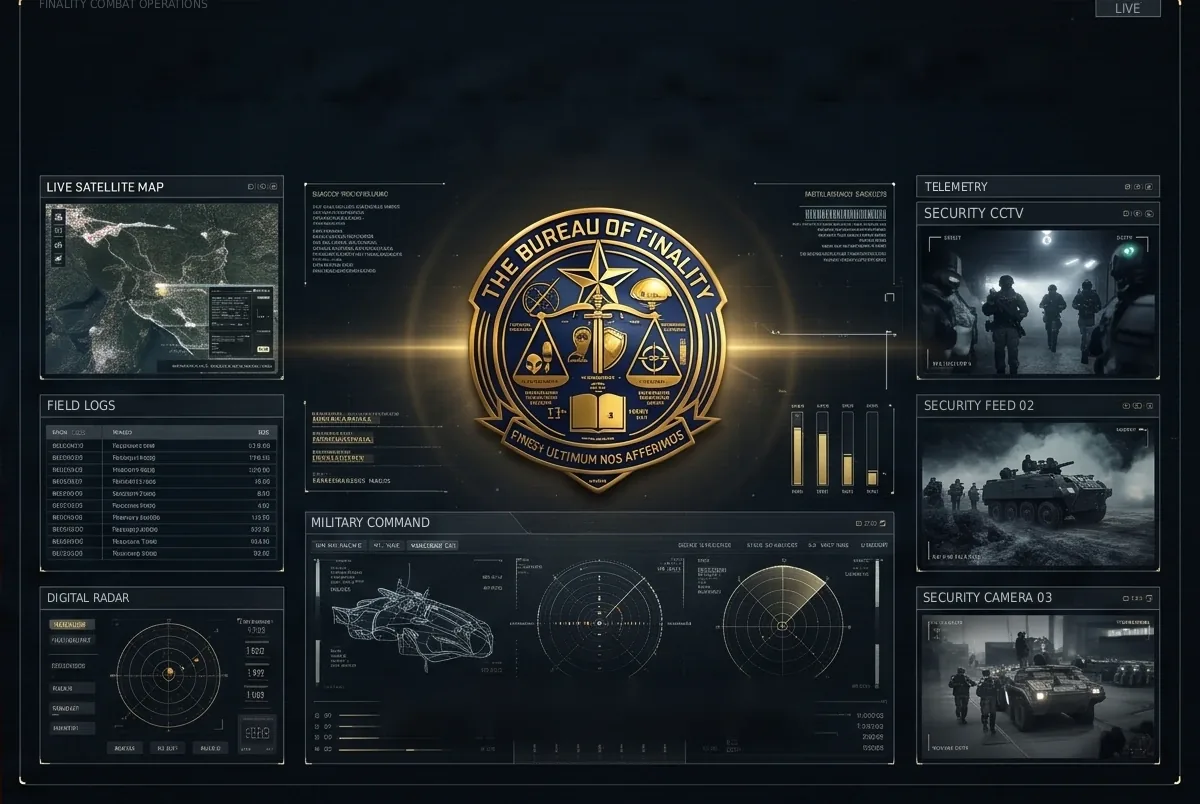
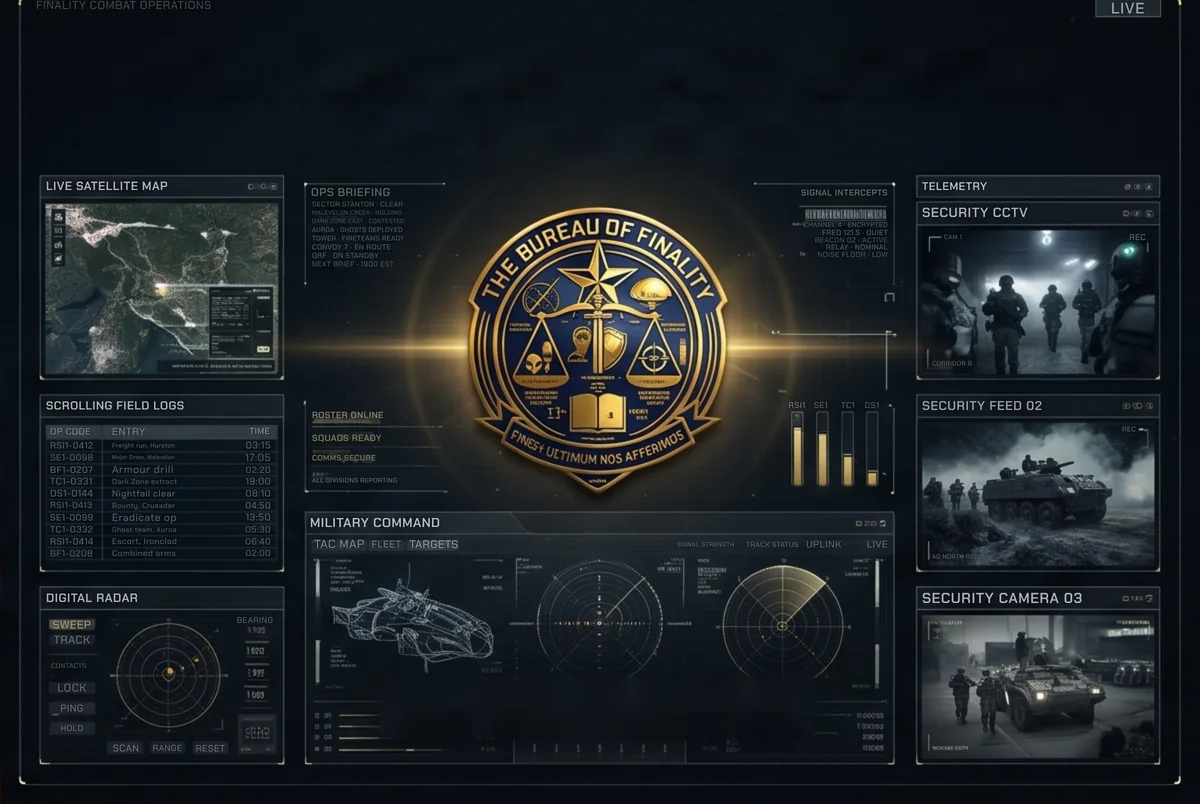
Bureau: TCC labels in Chakra Petch, Battlefield and Destiny gunfire removed, radar and log alignment (#53)

diff --git a/site/bureau/fx.js b/site/bureau/fx.js
@@ -20,8 +20,6 @@ function start() {
     bf1: {
       glows: [[430, 450, 95, '255, 120, 40', 0.5], [1160, 500, 120, '255, 110, 40', 0.5], [340, 620, 80, '255, 130, 50', 0.45], [175, 505, 85, '255, 120, 40', 0.4], [985, 600, 95, '255, 120, 40', 0.4], [610, 560, 70, '255, 140, 60', 0.3]],
       radars: [[1068, 106, 82], [130, 680, 64]],
-      muzzles: [[163, 436, -1], [1084, 428, 1]],
-      tracers: { from: [[60, 520, 380, 640], [820, 300, 1180, 520]], rate: 2.2, cols: ['#FFD08A', '#FFB45A', '#FFE7A8'] },
       embers: { rate: 70, area: [0, 380, 1200, 804], cols: ['#FFB45A', '#FFD98A', '#FF8A3D'] },
       smoke: { rate: 1.6, area: [0, 120, 1200, 460] }
     },
@@ -29,7 +27,7 @@ function start() {
       radars: [[602, 618, 59], [782, 626, 62], [168, 676, 52]],
       cctv: [[922, 230, 1157, 375], [922, 425, 1157, 567], [922, 617, 1157, 757]],
       map: [47, 205, 276, 374],
-      logs: [47, 432, 276, 562],
+      logs: [47, 424, 276, 562],
       bars: { xs: [797, 822, 847, 872], w: 10, top: 410, bottom: 488 },
       blinks: [[1150, 15], [250, 186], [1150, 206], [1150, 400], [1150, 597], [880, 522], [1140, 780], [245, 590]],
       scan: true
@@ -58,7 +56,6 @@ function start() {
     ds1: {
       glows: [[855, 552, 40, '190, 120, 255', 0.75], [335, 330, 30, '255, 180, 90', 0.5], [845, 232, 28, '255, 190, 110', 0.5], [600, 700, 120, '120, 160, 255', 0.3], [915, 85, 30, '255, 240, 210', 0.4]],
       radars: [[920, 90, 55], [282, 92, 60]],
-      lasers: { rate: 2.2, lanes: [[[220, 280, 420, 400], [700, 260, 1000, 460]], [[760, 220, 1000, 330], [220, 420, 480, 560]]], cols: ['#FF5A6A', '#FF8A8A', '#7FB2FF', '#C9A8FF'] },
       bursts: [[300, 560], [840, 440]],
       meteors: { rate: 0.6 },
       twinkle: 80,
@@ -300,7 +297,7 @@ function start() {
     ctx.restore();
     // A highlight row scanning the field logs.
     const [lx0, ly0, lx1, ly1] = S.logs;
-    const row = ly0 + 16 + (Math.floor(t * 2.5) % 10) * 12.4;
+    const row = ly0 + 16 + (Math.floor(t * 2.5) % 10) * 11.95;
     ctx.fillStyle = 'rgba(216, 169, 51, .16)';
     ctx.fillRect(lx0 + 2, row, lx1 - lx0 - 4, 11);
     ctx.fillStyle = 'rgba(246, 211, 106, .7)';
